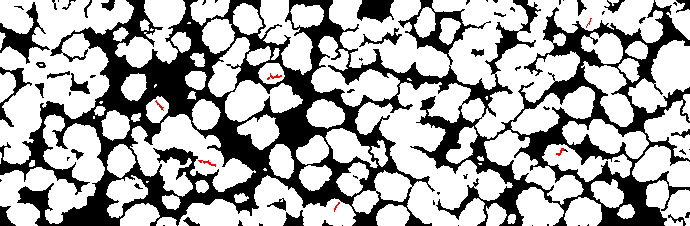
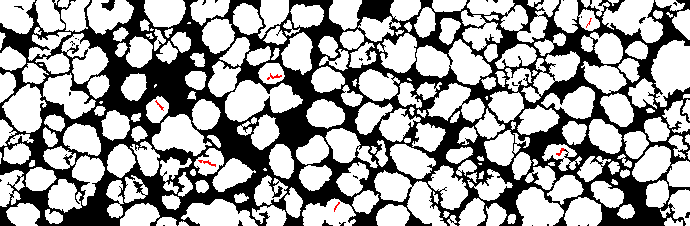
Separate touching particles in sample2's key and record the methods
The thin-dark-line filter cuts most gaps; the rest were cut by hand along the
darkest path. docs/study.md keeps what worked for later automation.

diff --git a/docs/study.md b/docs/study.md
@@ -1,0 +1,71 @@
+# Study: rules learned while hand-fixing answer keys
+
+These notes come from cleaning the sample1 and sample2 answer keys in `frontend/asset` (particle white, pore black, crack red). Each rule is marked by whether it helped. The ones that worked are candidates for automation, or for new feature channels in the app.
+
+Sample2 values: smoothed binder ≈ 70, particle ≈ 149, edge level 109.5. Lengths are in pixels at sample2's scale.
+
+## Worked
+
+### Particle outline from brightness
+- **Rule:** smooth the luminance with σ 0.7 and threshold it at the edge level, which sits midway between the binder and particle peaks. Fill dark holes inside particles up to 6 px and drop bright specks up to 4 px.
+- **Result:** outlines followed the particles far better than the DINO + ExtraTrees fill. The fill was blobby, merged touching particles, and left outline fragments inside textured particles.
+
+### Oriented thin-dark-line score
+- **Feature idea:** this is the strongest result so far, and the best candidate for a feature channel.
+- **Rule:** for 16 directions, take the mean along a 9 px line, then the means along two parallel lines offset ±2.5 px. The score is `min(side means) − line mean`, maximised over direction.
+- **Result:** gaps between touching particles come out as a clean network. Speckle texture inside particles stays low, because a speck is not a line.
+- `black-hat` (closing − image) by comparison lights up texture and the rims of wide pores too.
+
+```python
+def line_score(img, L=9, off=2.5, n=16):
+    best = np.full(img.shape, -1e9, np.float32); r = L//2+4; size = 2*r+1
+    for k in range(n):
+        t = np.pi*k/n; d = np.array([np.cos(t), np.sin(t)]); p = np.array([-np.sin(t), np.cos(t)])
+        ks = []
+        for o in (0, off, -off):
+            K = np.zeros((size*4, size*4), np.float32)
+            for s in np.linspace(-L/2, L/2, L*4):
+                x, y = (np.array([r, r]) + s*d + o*p)*4 + 2
+                K[int(round(y)), int(round(x))] += 1
+            K = cv2.resize(K, (size, size), interpolation=cv2.INTER_AREA); ks.append(K/K.sum())
+        line, a, b = (cv2.filter2D(img, -1, K, borderType=cv2.BORDER_REFLECT) for K in ks)
+        best = np.maximum(best, np.minimum(a, b) - line)
+    return best
+```
+
+### Gap → pore from the line score (hysteresis)
+- **Strong pixels:** particle pixels with score > 12–14 and smoothed level < 140, outside a 7×7 dilation of reviewed cracks. Keep a strong component only if it touches pore and has at least 4 px.
+- **Weak pixels:** score > 5–7, joined to kept strong lines through 8-connectivity. They close the last one-pixel bridges.
+- **Result:** most touching particles split along their real gaps. A per-piece colour view, with one colour per connected particle piece, is the fastest way to see what is still merged.
+
+### Clean-up after the gap cut
+- **Rim erosion:** the weak pixels also shave about half a pixel off every particle rim. Changed pixels within 1.5 px of the old pore that touch no deeper changed pixel go back to particle. On sample2 the cut had removed 10% of the particle area before this step.
+- **Cuts that separate nothing:** keep a changed component only if it touches at least two particle pieces of 20 px or more. Otherwise it is a notch into texture, and it is reverted.
+- **Crumbs:** particle pieces under 20 px, cut off a bigger old piece, get their surrounding cut pixels back.
+
+### Hand cuts along the darkest path
+- **Rule:** give a few (x, y) points from pore to pore. Dijkstra on cost `(level/100)^4 + 0.05`, 8-connected, runs inside a box around each segment with a 2–4 px margin. Diagonal steps get the darker corner pixel added, so the cut separates under 4-connectivity.
+- **Missed bridges:** when a cut still does not separate, print the mask as text around it (`#` for particle). One-pixel bridges are then easy to find.
+- **Finding merges:** particle pieces of 300 px or more with solidity (area over convex hull) below 0.8–0.85 point to merges almost every time. Review them zoomed to 8× with a 5 px grid.
+- **Order:** apply hand cuts after automatic pruning, or the pruning undoes cuts whose bridge is still open.
+
+### Crack rules
+- **Crack thinning:** keep crack pixels where a grayscale closing (5×5 ellipse) minus the σ 0.5 image is greater than 12. The rest become particle. Crack pieces under 4 px become particle.
+- **Line-shaped cracks only (sample2):** from each crack piece's covariance eigenvalues, require length = 4·√ev_max ≥ 10 and elongation √(ev_max/ev_min) ≥ 3. Survivors were then checked by eye.
+- **Crack lying on pore:** a crack line with more than 50% of its pixels in a 5×5 dilation of pore is pore.
+- **Thin pore inside a particle (sample1):** pore with half-width ≤ 2.5 inside the hull of a closing (r 3–4), with per-pixel hull depth greater than 3, is crack.
+- **Gap along an outline (sample1):** a crack line of 10 px or more, within 2 px of the convex hull of a particle piece of 2,000 px or more, and touching pore, is pore.
+
+### Unscored pixels
+- Specks under 30 px take the nearest label.
+- Wider areas are split at the edge level.
+
+### Review tools
+- **Cubic upsampling:** use it, not nearest, for the original image in review tiles. Faint gaps are much easier to see.
+- **Contact sheets:** one zoomed cell per candidate edit, showing the original and the edit side by side. This is quick for vetoing.
+
+## Did not work
+- **Watershed on the distance map or on intensity:** both for spotting gaps and for splitting particles, with h-maxima or eroded-core markers. The lines run through real particles and flag real cracks.
+- **Custom priority-flood watershed on black-hat, judged by median black-hat along each boundary:** at a threshold of 7 most cuts crossed uniform particle; at 10 almost none survived. There is no usable middle.
+- **Opening-based bodies and edge bands** for telling gaps between particles from cracks.
+- **Black-hat (closing − image) as a gap detector:** with a "touches pore" filter the gaps come out blobby and too wide in textured areas.

diff --git a/docs/dino-features.md b/docs/dino-features.md
@@ -70,7 +70,7 @@ The seeds come from brightness, so particle/pore/binder favour brightness featur
 | Sample | Classes | Built with |
 |---|---|---|
 | 1 | particle (white), pore (black), crack (red); every pixel scored | `make_truth.py`, then binder merged into pore; unscored specks under 30 px take their nearest label, wider unscored areas split at the particle edge level (141.5). Cracks are then thinned to pixels at least 12 gray levels darker than a 5 px closing of the image; crack lines lying mostly along pore are pore. Thin pore (half-width ≤ 2.5 px) more than 3 px inside a particle outline (4 px closing) is crack. Crack lines of at least 10 px within 2 px of a large particle's convex outline (pieces of 2 000 px or more) that open onto pore are gaps between particles and become pore |
-| 2 | particle (white), pore (black), crack (red); every pixel scored | `make_truth.py --scale .5 --split`, then sample1's clean-up (binder into pore, unscored filled at edge level 109.5, cracks thinned), then only long line-shaped cracks kept and each of the remaining 19 checked by eye: 6 kept. Particle outlines were then redrawn from the image: luminance smoothed at σ 0.7 above 109.5, holes up to 6 px filled, specks up to 4 px dropped; touching particles were split on watershed lines between distance peaks where the line is dark (median 7×7 black-hat above 9) |
+| 2 | particle (white), pore (black), crack (red); every pixel scored | `make_truth.py --scale .5 --split`, then sample1's clean-up (binder into pore, unscored filled at edge level 109.5, cracks thinned), then only long line-shaped cracks kept and each of the remaining 19 checked by eye: 6 kept. Particle outlines were then redrawn from the image: luminance smoothed at σ 0.7 above 109.5, holes up to 6 px filled, specks up to 4 px dropped; touching particles were split along thin dark lines found by an oriented line filter (hysteresis 12 / 5, see `study.md`), cuts that separate nothing or that only shave particle rims were undone, and 25 faint gaps were cut by hand along the darkest path, piece by piece |
 | 3 | large, small, background | `make_size_truth.py`, size rule (same as `eval/truth/sample3_size_mask.png`) |
 | 4 | particle, pore, crack | `make_sample4_truth.py`: polished graphite sections; surfaces below the section plane, marked by hand boxes, are pore |
 
